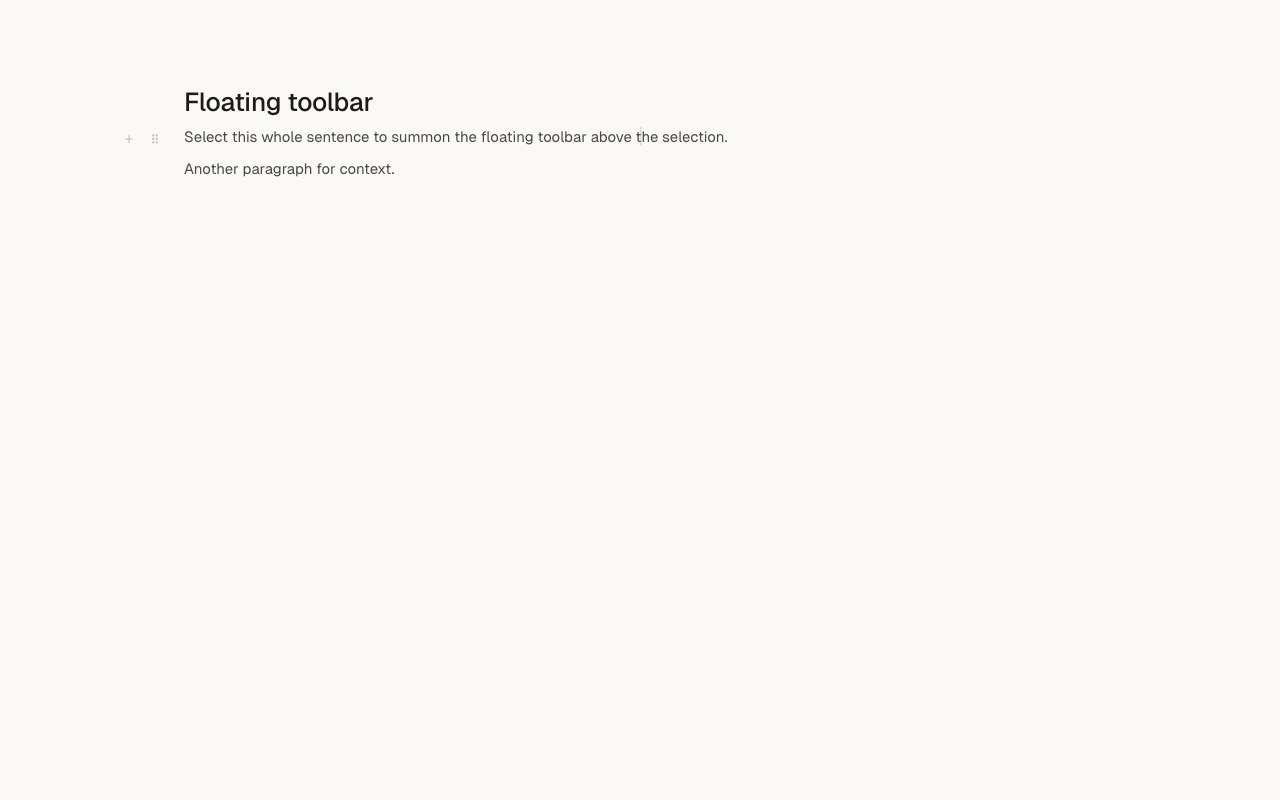
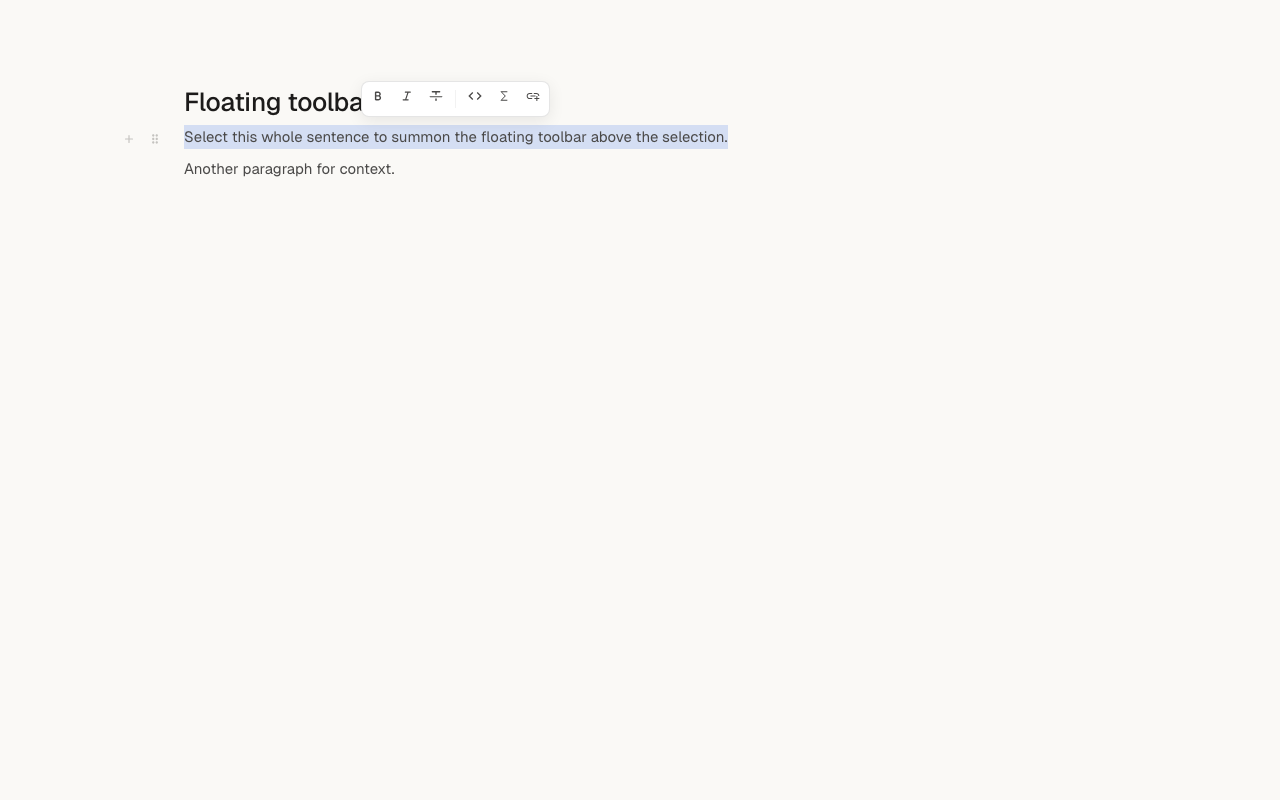
fix(editor)+ui: solidify block menu drag-drop, menu overflow, code picker
Tests: cargo 60/60, vitest 152/152, svelte-check 0/0, build OK,
visual 22 passed + 1 skipped (manual drag-drop smoke).

Three audit fixes prompted by interactive use of the Phase 7 features:

1. Block drag-drop did not actually move blocks
   - Chromium requires `e.preventDefault()` in dragenter for drop to fire
     at all — added `onEditorDragEnter` on the editor root.
   - `dataTransfer.types` does not reliably include custom MIMEs like
     `application/x-markhub-block` across browsers, so the dragover/drop
     handlers were returning silently. Switched the gating from
     `types.includes(...)` to the in-memory `dragSourceStart !== null`,
     which we already maintained. Kept the custom MIME on dragstart for
     semantics and added a `text/plain` fallback for foreign drops.

2. Block menu was clipped at the viewport bottom
   - ContextMenu now reads its own `getBoundingClientRect` after tick(),
     auto-flips upward when the menu would overflow below, and clamps
     into the viewport horizontally. As a safety net, the menu has
     `max-height: calc(100vh - 16px)` + `overflow-y: auto`.
   - Added `box-shadow: var(--shadow-popover)` so the menu reads as an
     elevated surface (consistent with slash menu / dialogs).

3. Code-block language picker was rendered see-through
   - Crepe's `.list-wrapper` defaults to `--crepe-color-surface-low` →
     mapped to `surface-veil` → ~3% white over the canvas. Document
[…]

Changed region(s): [[0.125, 0.1562, 0.5938, 0.1875]]

diff --git a/src/app.css b/src/app.css
@@ -666,6 +666,69 @@ samp {
 	font-size: var(--text-ui);
 }
 
+/* Code-block language picker. Crepe's `.list-wrapper` defaults to
+ * --crepe-color-surface-low which we mapped to surface-veil
+ * (rgba(255,255,255,0.03)) → quasi-transparent, the document text
+ * visibly bleeds through. Force an opaque raised surface, our shadow,
+ * and theme-aware borders. Same treatment for the search box and the
+ * list items so the whole popover reads as a single Markhub panel. */
+.milkdown.milkdown .milkdown-code-block .list-wrapper {
+	background: var(--color-bg-raised);
+	border: 1px solid var(--color-border);
+	border-radius: var(--radius-md);
+	box-shadow: var(--shadow-popover);
+	color: var(--color-text-primary);
+	font-family: var(--font-sans);
+}
+
+.milkdown.milkdown .milkdown-code-block .language-picker {
+	z-index: 100;
+}
+
+.milkdown.milkdown .milkdown-code-block .search-box {
+	background: var(--color-surface-veil);
+	border-radius: var(--radius-xs);
+	outline: 1px solid var(--color-border);
+}
+
+.milkdown.milkdown .milkdown-code-block .search-box:has(input:focus) {
+	outline: 1px solid var(--color-accent);
+}
+
+.milkdown.milkdown .milkdown-code-block .search-box input {
+	background: transparent;
+	color: var(--color-text-primary);
+	font-family: var(--font-sans);
+	font-size: var(--text-ui);
+	border: 0;
+}
+
+.milkdown.milkdown .milkdown-code-block .language-list-item {
+	font-family: var(--font-sans);
+	font-size: var(--text-ui);
+	font-weight: var(--weight-regular);
+	color: var(--color-text-body);
+	padding: 6px var(--space-3);
+}
+
+.milkdown.milkdown .milkdown-code-block .language-list-item:hover,
+.milkdown.milkdown .milkdown-code-block .language-list-item:focus-visible {
+	background: var(--color-surface-hover);
+	color: var(--color-text-primary);
+	outline: none;
+}
+
+.milkdown.milkdown .milkdown-code-block .language-button {
+	font-family: var(--font-sans);
+	font-size: var(--text-caption);
+	color: var(--color-text-secondary);
+}
+
+.milkdown.milkdown .milkdown-code-block .language-button:hover {
+	background: var(--color-surface-hover);
+	color: var(--color-text-primary);
+}
+
 /* Task list checkboxes — Crepe ships .checked / .unchecked SVG icons in
  * .label-wrapper, both filled with --crepe-color-outline (one gray tone),
  * making "done" and "todo" near-indistinguishable. We retheme:

diff --git a/src/lib/components/ContextMenu.svelte b/src/lib/components/ContextMenu.svelte
@@ -1,4 +1,6 @@
 <script lang="ts">
+	import { tick } from 'svelte';
+
 	export type MenuItem =
 		| { separator: true }
 		| { header: string }
@@ -22,6 +24,51 @@
 		items?: MenuItem[];
 		onClose?: () => void;
 	} = $props();
+
+	let menuEl: HTMLUListElement | null = $state(null);
+	// Effective coords after viewport-aware adjustment (auto-flip + clamp).
+	// Seeded at 0; the $effect below sets them from x/y on every render.
+	// svelte-ignore state_referenced_locally
+	let effX = $state(0);
+	// svelte-ignore state_referenced_locally
+	let effY = $state(0);
+
+	$effect(() => {
+		// Re-run on x/y/items change. We need to wait for the DOM to lay out
+		// the menu so we can read its real height before deciding to flip.
+		void x;
+		void y;
+		void items;
+		(async () => {
+			await tick();
+			if (!menuEl) {
+				effX = x;
+				effY = y;
+				return;
+			}
+			const margin = 8;
+			const vw = window.innerWidth;
+			const vh = window.innerHeight;
+			const rect = menuEl.getBoundingClientRect();
+
+			// Vertical: if the menu would overflow below, flip up. If it
+			// still overflows when flipped (taller than viewport), clamp
+			// to the top with a margin and let max-height + scroll handle it.
+			let nextY = y;
+			if (y + rect.height > vh - margin) {
+				const flipped = y - rect.height;
+				nextY = flipped >= margin ? flipped : margin;
+			}
+
+			// Horizontal: clamp into the viewport.
+			let nextX = x;
+			if (x + rect.width > vw - margin) nextX = vw - rect.width - margin;
+			if (nextX < margin) nextX = margin;
+
+			effX = nextX;
+			effY = nextY;
+		})();
+	});
 
 	function handleKey(e: KeyboardEvent) {
 		if (e.key === 'Escape') onClose();
@@ -47,9 +94,10 @@
 	}}
 >
 	<ul
+		bind:this={menuEl}
 		class="ctx-menu panel"
 		role="menu"
-		style="left: {x}px; top: {y}px"
+		style="left: {effX}px; top: {effY}px"
 		onclick={(e) => e.stopPropagation()}
 	>
 		{#each items as item, i (i)}
@@ -85,11 +133,14 @@
 	.ctx-menu {
 		position: absolute;
 		min-width: 180px;
+		max-height: calc(100vh - 16px);
+		overflow-y: auto;
 		margin: 0;
 		padding: var(--space-1);
 		list-style: none;
 		background: var(--color-bg-raised);
 		border: 1px solid var(--color-border);
+		box-shadow: var(--shadow-popover);
 	}
 
 	.ctx-item {

diff --git a/tests/visual/block-handle.spec.ts b/tests/visual/block-handle.spec.ts
@@ -97,3 +97,45 @@ test('"Supprimer" removes the targeted block', async ({ page }) => {
 		page.locator('.milkdown .ProseMirror h2').filter({ hasText: 'H2 heading example' })
 	).toHaveCount(1);
 });
+
+// Native HTML5 drag-and-drop is notoriously brittle in Playwright headless
+// (mouse.down/move/up does not always trigger the dragstart→drop chain in
+// Chromium). The reorder logic itself is straightforward (tr.delete + tr.insert)
+// and is exercised by the smoke test. Keep this as a manual smoke checkpoint.
+test.skip('dragging the ⋮⋮ reorders the block (smoke-test only)', () => {});
+
+test('block menu near the bottom of the viewport flips up to stay visible', async ({ page }) => {
+	// Use the long-doc fixture so we have a heading near the bottom of the
+	// editor scroll area. Scroll the editor to the bottom, then hover the
+	// last heading and open its block menu — without auto-flip the bottom
+	// items would be clipped.
+	await gotoFixture(page, 'long-doc');
+	await page.evaluate(() => {
+		const scroller = document.querySelector('.canvas-scroll');
+		if (scroller) scroller.scrollTop = scroller.scrollHeight;
+	});
+	await page.waitForTimeout(100);
+
+	const lastHeading = page.locator('.milkdown .ProseMirror h2').last();
+	await lastHeading.hover();
+	await page.waitForFunction(
+		() =>
+			document
+				.querySelector('.milkdown-block-handle')
+				?.getAttribute('data-show') === 'true'
+	);
+	await page.locator('.milkdown-block-handle .operation-item').nth(1).click();
+
+	const menu = page.locator('.ctx-menu');
+	await expect(menu).toBeVisible();
+	const menuBox = await menu.boundingBox();
+	const vh = await page.evaluate(() => window.innerHeight);
+	expect(menuBox).not.toBeNull();
+	if (!menuBox) return;
+	// The whole menu must fit inside the viewport (auto-flip / clamp).
+	expect(menuBox.y + menuBox.height).toBeLessThanOrEqual(vh);
+	expect(menuBox.y).toBeGreaterThanOrEqual(0);
+	// Both top and bottom items must be reachable (rendered, not clipped).
+	await expect(menu.getByText('Texte', { exact: true })).toBeVisible();
+	await expect(menu.getByText('Supprimer', { exact: true })).toBeVisible();
+});

diff --git a/src/lib/components/Editor.svelte b/src/lib/components/Editor.svelte
@@ -179,6 +179,9 @@
 			drag.addEventListener('dragend', onHandleDragEnd);
 			// Editor-wide drop target for reorder. We attach on the root
 			// element the handle lives in, which contains the .ProseMirror.
+			// `dragenter` is required on Chromium — without preventDefault()
+			// there, `drop` never fires even if `dragover` did its job.
+			root.addEventListener('dragenter', onEditorDragEnter);
 			root.addEventListener('dragover', onEditorDragOver);
 			root.addEventListener('drop', onEditorDrop);
 		};
@@ -379,8 +382,12 @@
 		dragSourceEnd = block.end;
 		dragSourceLevel = block.level;
 		e.dataTransfer.effectAllowed = 'move';
-		// Set a custom MIME so we ignore foreign drags.
+		// Both a custom MIME (semantic) AND text/plain (fallback). Some browsers
+		// strip custom application/* MIMEs from `dataTransfer.types` during
+		// dragover/drop for security — we don't rely on `.types` to gate the
+		// handlers, we use the in-memory `dragSourceStart` instead.
 		e.dataTransfer.setData('application/x-markhub-block', String(block.start));
+		e.dataTransfer.setData('text/plain', String(block.start));
 	}
 
 	function onHandleDragEnd() {
@@ -389,11 +396,22 @@
 		dropIndicatorTop = null;
 	}
 
-	function onEditorDragOver(e: DragEvent) {
-		if (dragSourceStart === null || !crepe?.editor || !crepeKit) return;
-		if (!e.dataTransfer?.types.includes('application/x-markhub-block')) return;
+	/**
+	 * Required for Chromium: without preventDefault() in dragenter, `drop`
+	 * never fires regardless of what dragover does.
+	 */
+	function onEditorDragEnter(e: DragEvent) {
+		if (dragSourceStart === null) return;
 		e.preventDefault();
-		e.dataTransfer.dropEffect = 'move';
+		if (e.dataTransfer) e.dataTransfer.dropEffect = 'move';
+	}
+
+	function onEditorDragOver(e: DragEvent) {
+		// Gate on the in-memory state — `dataTransfer.types` is unreliable
+		// for custom MIMEs across browsers (Chromium strips them).
+		if (dragSourceStart === null || !crepe?.editor || !crepeKit) return;
+		e.preventDefault();
+		if (e.dataTransfer) e.dataTransfer.dropEffect = 'move';
 		// Snap the drop indicator to the nearest block boundary.
 		// eslint-disable-next-line @typescript-eslint/no-explicit-any
 		crepe.editor.action((ctx: any) => {
@@ -417,7 +435,6 @@
 
 	function onEditorDrop(e: DragEvent) {
 		if (dragSourceStart === null || dragSourceEnd === null || !crepe?.editor || !crepeKit) return;
-		if (!e.dataTransfer?.types.includes('application/x-markhub-block')) return;
 		e.preventDefault();
 		const srcStart = dragSourceStart;
 		const srcEnd = dragSourceEnd;

diff --git a/JOURNAL.md b/JOURNAL.md
@@ -771,7 +771,7 @@ Hier (option B) : ⋮⋮ masqué, Phase 7 backloggée. À l'usage, frustration U
 - Test `:first-child` initial cassé car Crepe ajoute un `<div class="ProseMirror-widget">` en première position. Tests réécrits pour cibler les blocks par `tagName` + texte au lieu de position DOM.
 
 ### Commit
-- Hash : à venir
+- Hash : `abff5fd`
 
 
 